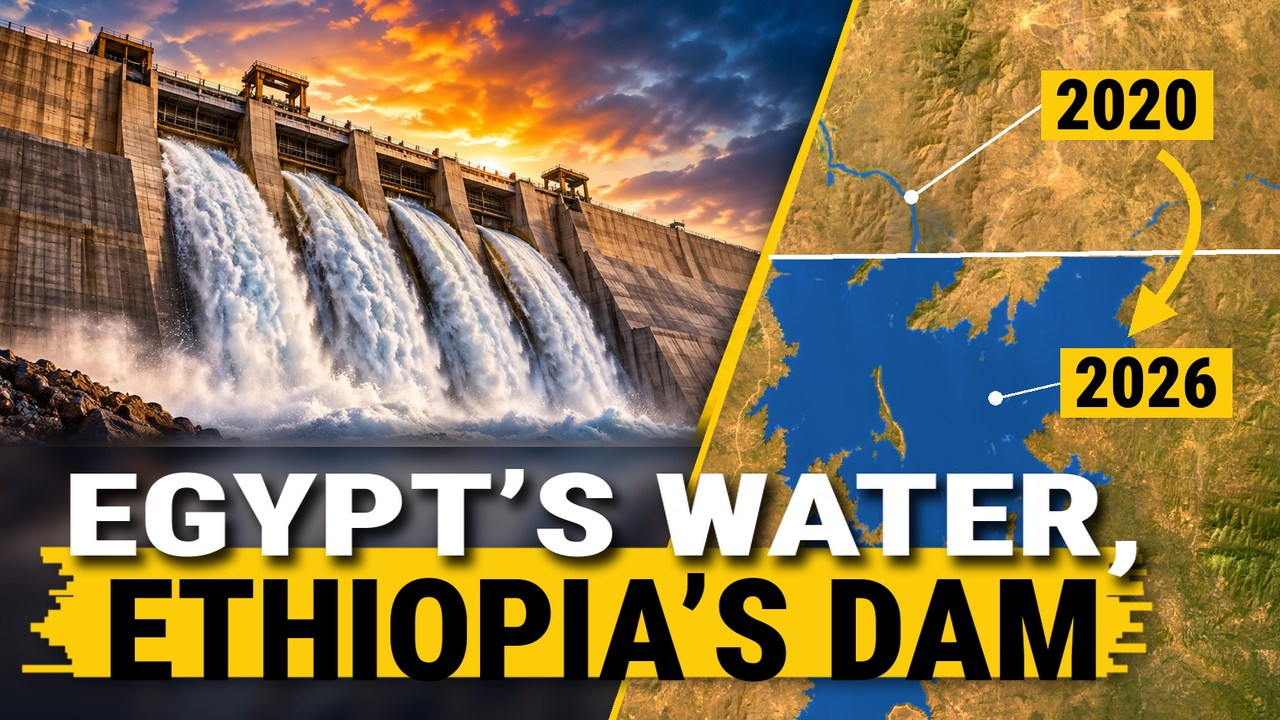
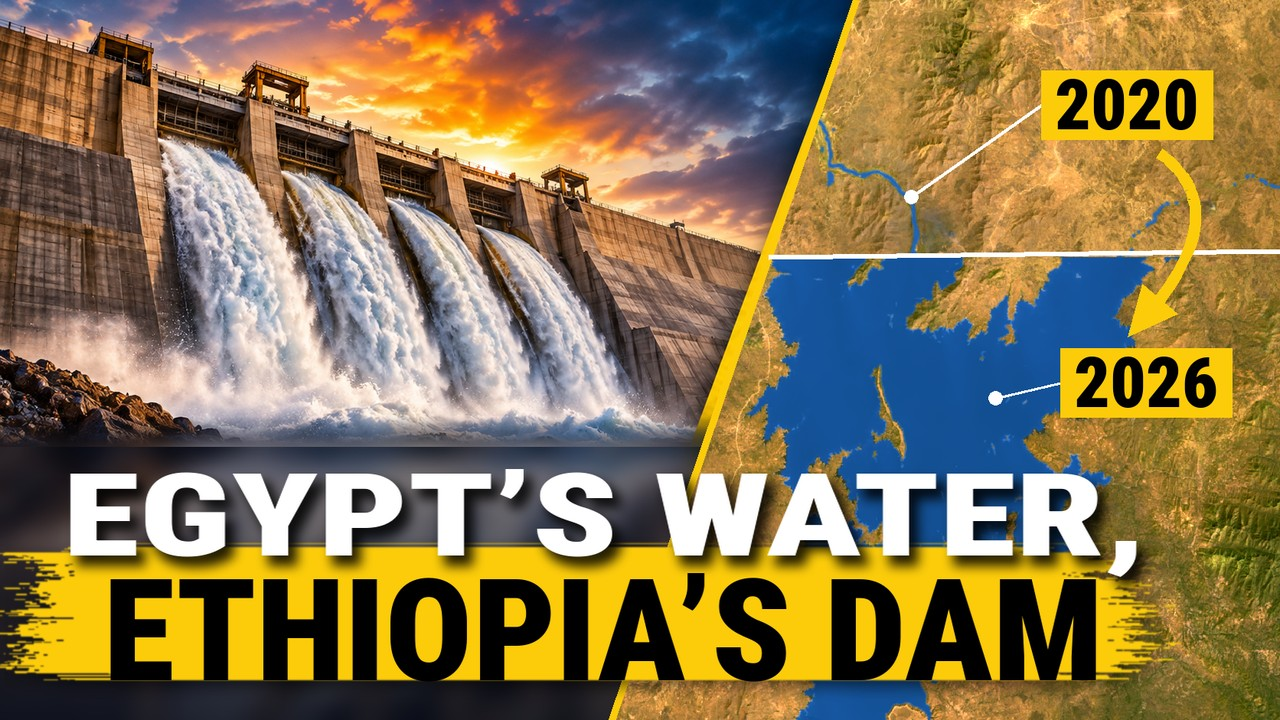
gerd thumbnail: dry-brush ends on the headline stroke
Claude-Session: https://claude.ai/code/session_016c6ARmPUr2BrGtPLGExamv

diff --git a/reels/opuscar/gerd/tools/thumb.py b/reels/opuscar/gerd/tools/thumb.py
@@ -80,15 +80,33 @@ def word(t, size, width, fill, shadow):
         a = lay.split()[3]; sh = Image.new('RGBA', lay.size, (0, 0, 0, 0)); sh.putalpha(a.filter(ImageFilter.MaxFilter(5)).filter(ImageFilter.GaussianBlur(7)).point(lambda v: int(v * .85)))
         out = Image.new('RGBA', (lay.width + 16, lay.height + 16)); out.alpha_composite(sh, (10, 12)); out.alpha_composite(lay, (0, 0)); return out
     return lay
-# brush stroke: a bar with dry-brush ends and wobbly edges
-bx0, bx1, by0, by1 = 26, 1505, 716, 884
-brush = Image.new('L', (W, H)); bd = ImageDraw.Draw(brush)
-bd.rectangle((bx0 + 70, by0, bx1 - 60, by1), fill=255)
-for yy in range(by0 + 4, by1 - 2, 9):                   # dry-brush ends: chunky strokes of uneven length
-    w_ = int(rng.integers(7, 13))
-    bd.line([(bx0 + 70 - rng.integers(0, 70) ** 1.0, yy), (bx0 + 90, yy)], fill=255, width=w_)
-    bd.line([(bx1 - 80, yy), (bx1 - 60 + rng.integers(0, 60), yy)], fill=255, width=w_)
-brush = brush.filter(ImageFilter.GaussianBlur(.8))
+# brush stroke: dry-brush ends like the design's — thin bristles of very uneven length, gaps near the end,
+# loose dashes past it, a slight slant, and rough top/bottom edges
+bx0, bx1, by0, by1 = 30, 1505, 716, 884
+M = np.zeros((H, W), np.float32)
+def smooth(n, k):
+    v = rng.normal(0, 1, n + 2 * k); return np.convolve(v, np.ones(k) / k, 'same')[k:k + n] * np.sqrt(k)
+rows = np.arange(by0 - 6, by1 + 7); n = len(rows)
+lo_end = bx0 + 40 + 22 * smooth(n, 9) + (rows - by0) * -.18      # left end: wavy, slanted
+hi_end = bx1 - 40 + 22 * smooth(n, 9) + (rows - by0) * .12
+y = 0
+while y < n:
+    h = int(rng.integers(1, 3)); yy = rows[y:y + h]                    # a bristle 1–3 px thick
+    edge = min(yy[0] - by0, by1 - yy[-1])                              # rows near the top/bottom are sparser
+    if edge < 0 and rng.random() < .55: y += h; continue
+    L = lo_end[y] - rng.exponential(9) + (rng.random() < .25) * rng.uniform(-10, 30)
+    R = hi_end[y] + rng.exponential(9) - (rng.random() < .25) * rng.uniform(-10, 30)
+    if edge < 6: L += rng.uniform(10, 120); R -= rng.uniform(10, 120)  # ragged top/bottom: short bristles there
+    M[yy[0]:yy[-1] + 1, max(int(L), 0):max(int(R), 0)] = 1
+    for side, end in ((-1, L), (1, R)):
+        for _ in range(int(rng.integers(0, 2))):                       # gaps just inside the end
+            g0 = end - side * rng.uniform(3, 26); gl = rng.uniform(3, 10)
+            a_, b_ = sorted((int(g0), int(g0 + side * gl))); M[yy[0]:yy[-1] + 1, max(a_, 0):max(b_, 0)] = 0
+        if rng.random() < .22:                                         # a loose dash past the end
+            d0 = end + side * rng.uniform(4, 16); dl = rng.uniform(4, 22)
+            a_, b_ = sorted((int(d0), int(d0 + side * dl))); M[yy[0]:yy[-1] + 1, max(a_, 0):max(b_, 0)] = 1
+    y += h
+brush = Image.fromarray((M * 255).astype(np.uint8)).filter(ImageFilter.GaussianBlur(1.0))
 yl = Image.new('RGB', (W, H), Y)
 shadow = brush.filter(ImageFilter.GaussianBlur(10)).point(lambda v: int(v * .6))
 img.paste(Image.new('RGB', (W, H)), (6, 8), shadow); img.paste(yl, (0, 0), brush)
